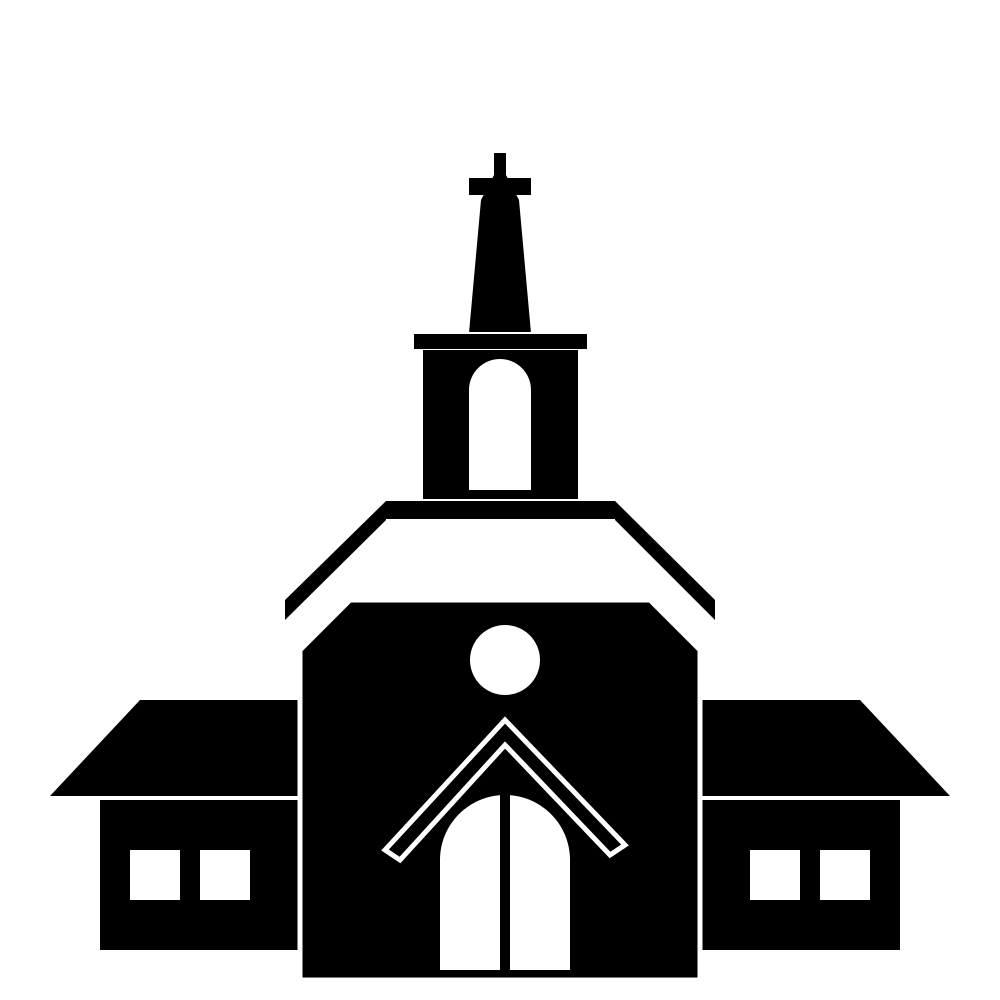
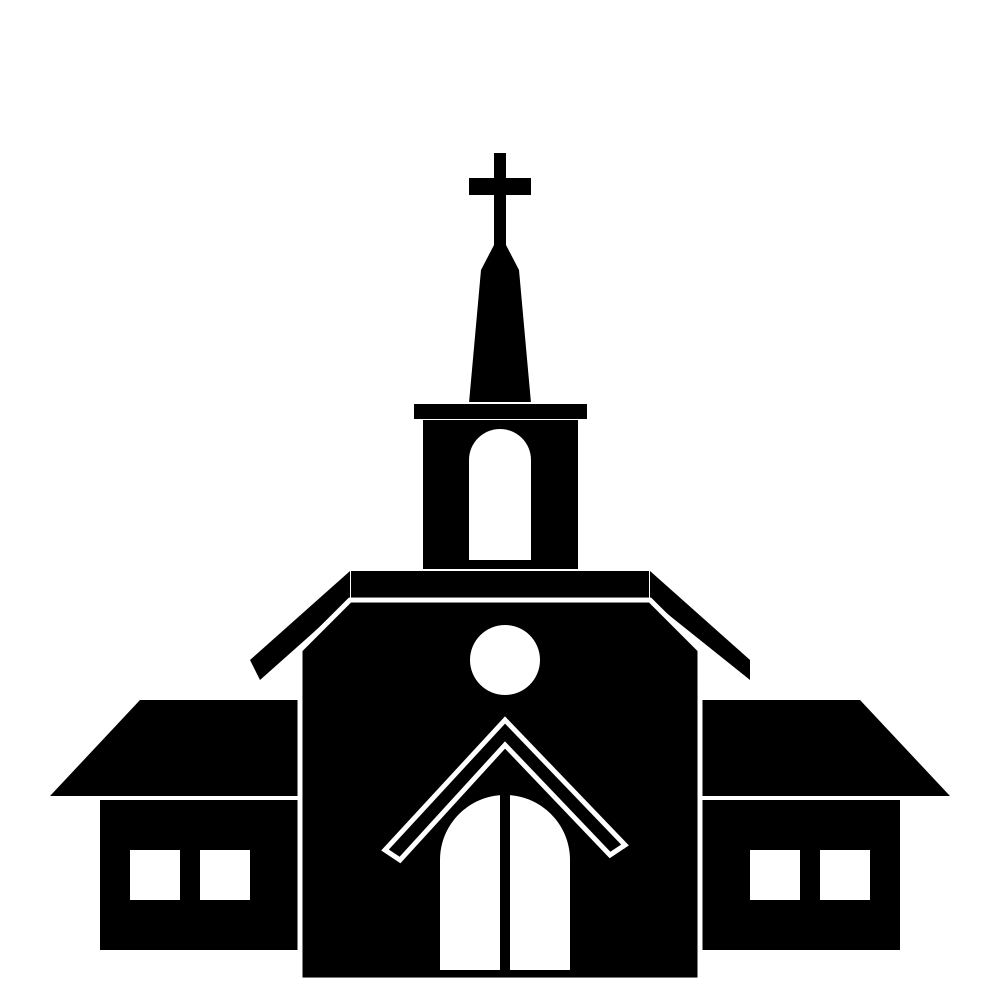
Final

Changed region(s): [[0.248, 0.186, 0.775, 0.682]]

diff --git a/charpel.py b/charpel.py
@@ -8,66 +8,66 @@ ctx.paint()
 ### Cross
 ctx.set_source_rgb(0, 0, 0)
 # Horizontal rectangle (top part of the cross)
-ctx.rectangle(469, 178, 62, 17)  # Adjusted y from 108 to 178
+ctx.rectangle(469, 178, 62, 17)
 ctx.fill()
 
 # Vertical rectangle (bottom part of the cross)
-ctx.rectangle(494, 153, 12, 92)  # Adjusted y from 83 to 153
+ctx.rectangle(494, 153, 12, 92)
 ctx.fill()
 
 ### Cross Pillar
-ctx.move_to(494, 175)
-ctx.line_to(481, 200)
-ctx.line_to(469, 333)
-ctx.line_to(531, 333)
-ctx.line_to(519, 200)
-ctx.line_to(506, 175)
+ctx.move_to(494, 245)
+ctx.line_to(481, 270)
+ctx.line_to(469, 403)
+ctx.line_to(531, 403)
+ctx.line_to(519, 270)
+ctx.line_to(506, 245)
 ctx.close_path()
 ctx.fill()
 
 ### Top Window
-ctx.rectangle(413, 333, 175, 17)
+ctx.rectangle(413, 403, 175, 17)
 ctx.set_source_rgb(0, 0, 0)
 ctx.fill_preserve()
 ctx.set_source_rgb(1, 1, 1)
 ctx.stroke()
-
 ctx.set_source_rgb(0,0,0)
-ctx.rectangle(423,350,155,155)
+ctx.rectangle(423, 420, 155, 155)
 ctx.fill()
 
-ctx.arc(500,390,31,math.pi,0)
+ctx.arc(500, 460, 31, math.pi, 0)
 ctx.set_source_rgb(1,1,1)
 ctx.fill()
 
-ctx.rectangle(469,390,62,100)
+ctx.rectangle(469, 460, 62, 100)
 ctx.fill()
 
-# Chapel Roof
-ctx.rectangle(385, 500, 231, 20)
+# Roof
+ctx.rectangle(350, 570, 300, 30)
 ctx.set_source_rgb(0, 0, 0)
 ctx.fill_preserve()
 ctx.set_source_rgb(1, 1, 1)
 ctx.stroke()
 
 # Left Roof Section
-ctx.move_to(386, 501)
-ctx.line_to(285, 600)
-ctx.line_to(285, 620)
-ctx.line_to(386, 520)
+ctx.move_to(350, 571)
+ctx.line_to(250, 660)
+ctx.line_to(260, 680)
+ctx.line_to(350, 600)
 ctx.set_source_rgb(0, 0, 0)
 ctx.fill()
 
 # Right Roof Section
-ctx.move_to(615, 501)
-ctx.line_to(715, 600)
-ctx.line_to(715, 620)
-ctx.line_to(615, 520)
+ctx.move_to(650, 571)
+ctx.line_to(750, 660)
+ctx.line_to(750, 680)
+ctx.line_to(650, 600)
 ctx.set_source_rgb(0, 0, 0)
 ctx.fill()
 
-# Draw the house base
-ctx.set_source_rgb(0, 0, 0)
+
+# Draw the house base (black rectangle)
+ctx.set_source_rgb(0, 0, 0)  # Set color to black
 ctx.rectangle(100, 800, 800, 150)
 ctx.fill()
 
@@ -101,7 +101,7 @@ ctx.fill()
 # Draw the polygon structure on top (the additional shape)
 ctx.set_source_rgb(0, 0, 0)
 
-# The polygon shape
+# Define points for the polygon shape
 ctx.move_to(300, 980)  # Bottom-left corner of the polygon
 ctx.line_to(300, 650)  # Left vertical
 ctx.line_to(350, 600)  # Slant left
@@ -110,7 +110,6 @@ ctx.line_to(700, 650)  # Slant right
 ctx.line_to(700, 980)  # Right vertical
 ctx.line_to(300, 980)  # Bottom horizontal
 
-# Fill the shape
 ctx.fill()
 
 # Add white stroke around the polygon
@@ -128,7 +127,7 @@ ctx.close_path()
 # Stroke the polygon
 ctx.stroke()
 
-# A white circle in the middle of the polygon
+# Add a white circle in the middle of the polygon
 ctx.set_source_rgb(1, 1, 1)
 ctx.arc(505, 660, 35, 0, 2 * math.pi)
 ctx.fill()
